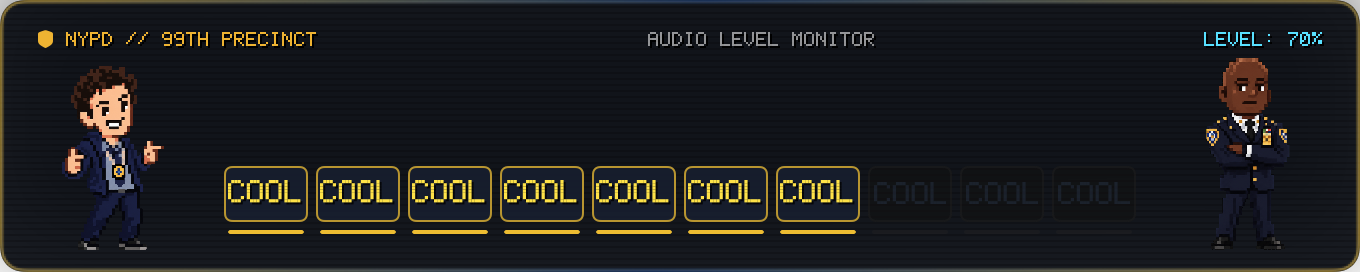
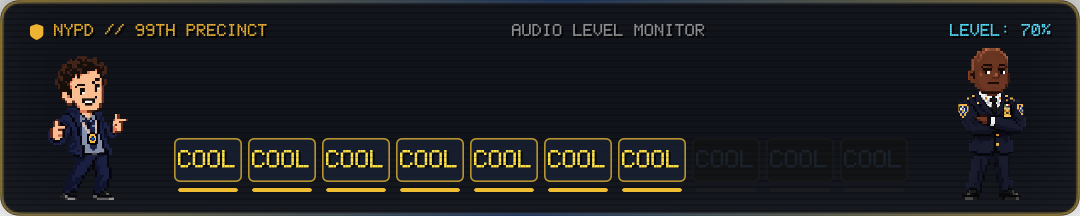
Scale down HUD dimensions to 540x108 with adjusted typography and slot padding

diff --git a/Sources/CustomVolumeHUDLib/VolumeHUDView.swift b/Sources/CustomVolumeHUDLib/VolumeHUDView.swift
@@ -19,17 +19,17 @@ public struct PixelSpeechBubble: View {
             }
 
             // Main bubble box
-            HStack(spacing: 4) {
+            HStack(spacing: 3) {
                 PixelWordView(
                     text: text,
-                    pixelSize: 1.5,
+                    pixelSize: 1.2,
                     color: Color(red: 1.0, green: 0.95, blue: 0.7),
                     shadowColor: Color.black,
-                    letterSpacing: 1.5
+                    letterSpacing: 1.2
                 )
             }
-            .padding(.horizontal, 8)
-            .padding(.vertical, 5)
+            .padding(.horizontal, 6)
+            .padding(.vertical, 4)
             .background(
                 ZStack {
                     RoundedRectangle(cornerRadius: 4, style: .continuous)
@@ -76,6 +76,13 @@ public struct PixelSpeechBubble: View {
 public struct VolumeHUDView: View {
     @ObservedObject public var viewModel: VolumeHUDViewModel
 
+    public static let hudWidth: CGFloat = 540
+    public static let hudHeight: CGFloat = 108
+    public static let slotWidth: CGFloat = 34
+    public static let slotHeight: CGFloat = 22
+    public static let slotPixelSize: CGFloat = 1.25
+    public static let slotLetterSpacing: CGFloat = 1.1
+
     public init(viewModel: VolumeHUDViewModel) {
         self.viewModel = viewModel
     }
@@ -98,15 +105,15 @@ public struct VolumeHUDView: View {
             // Base terminal bezel & scanlines
             terminalBackground
 
-            VStack(spacing: 4) {
+            VStack(spacing: 3) {
                 // Top terminal header
                 terminalHeader
 
                 // Main character + COOL slots row
-                HStack(alignment: .bottom, spacing: 8) {
+                HStack(alignment: .bottom, spacing: 6) {
                     // Left: Jake Peralta (~16% of width)
                     jakeSection
-                        .frame(width: 80, height: 96, alignment: .bottom)
+                        .frame(width: 64, height: 76, alignment: .bottom)
 
                     // Center: 10 "COOL" volume slots (~68% of width)
                     slotsSection
@@ -114,18 +121,18 @@ public struct VolumeHUDView: View {
 
                     // Right: Captain Raymond Holt (~16% of width)
                     holtSection
-                        .frame(width: 80, height: 96, alignment: .bottom)
+                        .frame(width: 64, height: 76, alignment: .bottom)
                 }
-                .padding(.horizontal, 16)
-                .padding(.bottom, 6)
+                .padding(.horizontal, 12)
+                .padding(.bottom, 4)
             }
 
             // Dialogue layer floating neatly in the center area above COOL slots
             dialogueLayer
         }
-        .frame(width: 680, height: 136)
-        .clipShape(RoundedRectangle(cornerRadius: 12, style: .continuous))
-        .shadow(color: Color.black.opacity(0.65), radius: 24, x: 0, y: 12)
+        .frame(width: Self.hudWidth, height: Self.hudHeight)
+        .clipShape(RoundedRectangle(cornerRadius: 10, style: .continuous))
+        .shadow(color: Color.black.opacity(0.65), radius: 18, x: 0, y: 8)
     }
 
     // MARK: - Subviews
@@ -134,19 +141,19 @@ public struct VolumeHUDView: View {
         ZStack {
             if let speech = viewModel.jakeSpeech {
                 PixelSpeechBubble(text: speech, pointsLeft: true)
-                    .position(x: 160, y: 58)
+                    .position(x: 130, y: 46)
                     .transition(.scale.combined(with: .opacity))
                     .zIndex(20)
             }
 
             if let speech = viewModel.holtSpeech {
                 PixelSpeechBubble(text: speech, pointsLeft: false)
-                    .position(x: 520, y: 58)
+                    .position(x: 410, y: 46)
                     .transition(.scale.combined(with: .opacity))
                     .zIndex(20)
             }
         }
-        .frame(width: 680, height: 136)
+        .frame(width: Self.hudWidth, height: Self.hudHeight)
         .animation(.spring(response: 0.25, dampingFraction: 0.7), value: viewModel.jakeSpeech)
         .animation(.spring(response: 0.25, dampingFraction: 0.7), value: viewModel.holtSpeech)
     }
@@ -154,7 +161,7 @@ public struct VolumeHUDView: View {
     private var terminalBackground: some View {
         ZStack {
             // Dark translucent acrylic backing
-            RoundedRectangle(cornerRadius: 12, style: .continuous)
+            RoundedRectangle(cornerRadius: 10, style: .continuous)
                 .fill(Color(red: 0.05, green: 0.07, blue: 0.11).opacity(0.94))
 
             // Subtle scanlines overlay
@@ -168,7 +175,7 @@ public struct VolumeHUDView: View {
             }
 
             // Retro police terminal double border
-            RoundedRectangle(cornerRadius: 12, style: .continuous)
+            RoundedRectangle(cornerRadius: 10, style: .continuous)
                 .strokeBorder(
                     LinearGradient(
                         colors: [
@@ -183,26 +190,26 @@ public struct VolumeHUDView: View {
                 )
 
             // Inner thin bevel
-            RoundedRectangle(cornerRadius: 11, style: .continuous)
+            RoundedRectangle(cornerRadius: 9, style: .continuous)
                 .stroke(Color.white.opacity(0.08), lineWidth: 0.75)
                 .padding(1)
         }
     }
 
     private var terminalHeader: some View {
-        HStack(spacing: 8) {
+        HStack(spacing: 6) {
             // Left: Precinct Badge & Identifier
-            HStack(spacing: 5) {
+            HStack(spacing: 4) {
                 Image(systemName: "shield.fill")
-                    .font(.system(size: 9, weight: .bold))
+                    .font(.system(size: 8, weight: .bold))
                     .foregroundColor(Color(red: 0.95, green: 0.75, blue: 0.25))
 
                 PixelWordView(
                     text: "NYPD // 99TH PRECINCT",
-                    pixelSize: 1.0,
+                    pixelSize: 0.85,
                     color: Color(red: 0.95, green: 0.75, blue: 0.25),
                     shadowColor: Color.black,
-                    letterSpacing: 1.0
+                    letterSpacing: 0.85
                 )
             }
 
@@ -211,38 +218,38 @@ public struct VolumeHUDView: View {
             // Center: Monitor tag
             PixelWordView(
                 text: "AUDIO LEVEL MONITOR",
-                pixelSize: 1.0,
+                pixelSize: 0.85,
                 color: Color.white.opacity(0.55),
                 shadowColor: Color.black,
-                letterSpacing: 1.0
+                letterSpacing: 0.85
             )
 
             Spacer()
 
             // Right: Level Readout
-            HStack(spacing: 4) {
+            HStack(spacing: 3) {
                 if viewModel.isMuted {
                     PixelWordView(
                         text: "[ MUTED ]",
-                        pixelSize: 1.0,
+                        pixelSize: 0.85,
                         color: Color(red: 1.0, green: 0.35, blue: 0.35),
                         shadowColor: Color.black,
-                        letterSpacing: 1.0
+                        letterSpacing: 0.85
                     )
                 } else {
                     let pct = Int(round(viewModel.volume * 100))
                     PixelWordView(
                         text: "LEVEL: \(pct)%",
-                        pixelSize: 1.0,
+                        pixelSize: 0.85,
                         color: Color(red: 0.4, green: 0.9, blue: 1.0),
                         shadowColor: Color.black,
-                        letterSpacing: 1.0
+                        letterSpacing: 0.85
                     )
                 }
             }
         }
-        .padding(.horizontal, 18)
-        .padding(.top, 9)
+        .padding(.horizontal, 14)
+        .padding(.top, 6)
     }
 
     private var jakeSection: some View {
@@ -250,13 +257,13 @@ public struct VolumeHUDView: View {
             // Jake Sprite facing right toward Holt
             if let img = jakeImage {
                 PixelArtSpriteView(image: img, isFlippedHorizontal: false)
-                    .frame(width: 54, height: 92)
+                    .frame(width: 44, height: 72)
                     .offset(y: viewModel.jakeBounceY)
                     .animation(.interactiveSpring(response: 0.15, dampingFraction: 0.6), value: viewModel.jakeBounceY)
             } else {
                 Rectangle()
                     .fill(Color.blue.opacity(0.3))
-                    .frame(width: 54, height: 92)
+                    .frame(width: 44, height: 72)
             }
         }
     }
@@ -266,22 +273,22 @@ public struct VolumeHUDView: View {
             // Captain Holt Sprite facing left toward Jake
             if let img = holtImage {
                 PixelArtSpriteView(image: img, isFlippedHorizontal: false)
-                    .frame(width: 44, height: 96)
+                    .frame(width: 36, height: 76)
             } else {
                 Rectangle()
                     .fill(Color.purple.opacity(0.3))
-                    .frame(width: 44, height: 96)
+                    .frame(width: 36, height: 76)
             }
         }
     }
 
     private var slotsSection: some View {
-        HStack(spacing: 4) {
+        HStack(spacing: 3) {
             ForEach(0..<VolumeHUDViewModel.maxSlots, id: \.self) { index in
                 volumeSlot(at: index)
             }
         }
-        .padding(.vertical, 8)
+        .padding(.vertical, 4)
     }
 
     @ViewBuilder
@@ -291,46 +298,46 @@ public struct VolumeHUDView: View {
         let slotOpacity = viewModel.slotOpacities[index]
         let effectiveOpacity = slotOpacity > 0.0 ? slotOpacity : (isActive ? 1.0 : 0.0)
 
-        VStack(spacing: 4) {
+        VStack(spacing: 3) {
             // The "COOL" slot container
             ZStack {
                 // Ghosted Inactive Base box (always visible underneath)
-                RoundedRectangle(cornerRadius: 4, style: .continuous)
+                RoundedRectangle(cornerRadius: 3, style: .continuous)
                     .fill(Color(white: 0.08).opacity(0.6))
 
-                RoundedRectangle(cornerRadius: 4, style: .continuous)
-                    .strokeBorder(Color(white: 0.2).opacity(0.35), lineWidth: 1.0)
+                RoundedRectangle(cornerRadius: 3, style: .continuous)
+                    .strokeBorder(Color(white: 0.2).opacity(0.35), lineWidth: 0.8)
 
                 PixelWordView(
                     text: "COOL",
-                    pixelSize: 1.6,
+                    pixelSize: Self.slotPixelSize,
                     color: Color(red: 0.22, green: 0.28, blue: 0.38).opacity(0.40),
                     shadowColor: nil,
-                    letterSpacing: 1.4
+                    letterSpacing: Self.slotLetterSpacing
                 )
 
                 // Active luminous layer with CRT phosphor dissolve & flicker opacity
                 if isActive || slotOpacity > 0.0 {
                     ZStack {
-                        RoundedRectangle(cornerRadius: 4, style: .continuous)
+                        RoundedRectangle(cornerRadius: 3, style: .continuous)
                             .fill(Color(red: 0.12, green: 0.16, blue: 0.24).opacity(0.9))
 
-                        RoundedRectangle(cornerRadius: 4, style: .continuous)
-                            .strokeBorder(Color(red: 0.95, green: 0.78, blue: 0.25).opacity(0.75), lineWidth: 1.0)
+                        RoundedRectangle(cornerRadius: 3, style: .continuous)
+                            .strokeBorder(Color(red: 0.95, green: 0.78, blue: 0.25).opacity(0.75), lineWidth: 0.8)
 
                         PixelWordView(
                             text: "COOL",
-                            pixelSize: 1.6,
+                            pixelSize: Self.slotPixelSize,
                             color: Color(red: 1.0, green: 0.90, blue: 0.35),
                             shadowColor: Color.black.opacity(0.8),
-                            letterSpacing: 1.4
+                            letterSpacing: Self.slotLetterSpacing
                         )
                         .offset(y: bounceY)
                     }
                     .opacity(effectiveOpacity)
                 }
             }
-            .frame(width: 42, height: 28)
+            .frame(width: Self.slotWidth, height: Self.slotHeight)
 
             // Bottom LED indicator bar
             ZStack {
@@ -343,7 +350,7 @@ public struct VolumeHUDView: View {
                         .opacity(effectiveOpacity)
                 }
             }
-            .frame(width: 38, height: 2.5)
+            .frame(width: 30, height: 2)
             .cornerRadius(1)
         }
     }

diff --git a/Tests/CustomVolumeHUDTests/CustomVolumeHUDTests.swift b/Tests/CustomVolumeHUDTests/CustomVolumeHUDTests.swift
@@ -219,10 +219,10 @@ final class CustomVolumeHUDTests: XCTestCase {
     @MainActor
     func testHUDControllerDimensions() {
         let controller = HUDWindowController()
-        XCTAssertGreaterThanOrEqual(controller.hudWidth, 600)
-        XCTAssertLessThanOrEqual(controller.hudWidth, 750)
-        XCTAssertGreaterThanOrEqual(controller.hudHeight, 110)
-        XCTAssertLessThanOrEqual(controller.hudHeight, 150)
+        XCTAssertGreaterThanOrEqual(controller.hudWidth, 480)
+        XCTAssertLessThanOrEqual(controller.hudWidth, 600)
+        XCTAssertGreaterThanOrEqual(controller.hudHeight, 95)
+        XCTAssertLessThanOrEqual(controller.hudHeight, 120)
     }
 
     @MainActor
@@ -247,7 +247,7 @@ final class CustomVolumeHUDTests: XCTestCase {
     @MainActor
     private func renderViewToPNG<V: View>(view: V, filename: String) {
         let hostingView = NSHostingView(rootView: view)
-        hostingView.frame = NSRect(x: 0, y: 0, width: 680, height: 136)
+        hostingView.frame = NSRect(x: 0, y: 0, width: VolumeHUDView.hudWidth, height: VolumeHUDView.hudHeight)
         hostingView.layoutSubtreeIfNeeded()
 
         guard let rep = hostingView.bitmapImageRepForCachingDisplay(in: hostingView.bounds) else { return }
@@ -380,16 +380,16 @@ final class CustomVolumeHUDTests: XCTestCase {
 
     func testSlotTextDimensionsFitWithinSlotBoxWithoutClipping() {
         let text = "COOL"
-        let pixelSize: CGFloat = 1.6
-        let letterSpacing: CGFloat = 1.4
+        let pixelSize: CGFloat = VolumeHUDView.slotPixelSize
+        let letterSpacing: CGFloat = VolumeHUDView.slotLetterSpacing
         let charCount = CGFloat(text.count)
         let glyphWidth = 5.0 * pixelSize
         let baseWidth = (charCount * glyphWidth) + ((charCount - 1) * letterSpacing)
         let totalWidth = baseWidth + 1.0 // with shadow
         let totalHeight = (7.0 * pixelSize) + 1.0
 
-        let boxWidth: CGFloat = 42.0
-        let boxHeight: CGFloat = 28.0
+        let boxWidth: CGFloat = VolumeHUDView.slotWidth
+        let boxHeight: CGFloat = VolumeHUDView.slotHeight
 
         XCTAssertLessThan(totalWidth, boxWidth, "COOL text width must be strictly less than slot box width")
         XCTAssertLessThan(totalHeight, boxHeight, "COOL text height must be strictly less than slot box height")

diff --git a/Sources/CustomVolumeHUDLib/HUDWindowController.swift b/Sources/CustomVolumeHUDLib/HUDWindowController.swift
@@ -9,8 +9,11 @@ public final class HUDWindowController {
     private var viewModel: VolumeHUDViewModel?
     private var hostingView: NSHostingView<VolumeHUDView>?
 
-    public let hudWidth: CGFloat = 680
-    public let hudHeight: CGFloat = 136
+    public static let defaultWidth: CGFloat = 540
+    public static let defaultHeight: CGFloat = 108
+
+    public let hudWidth: CGFloat = HUDWindowController.defaultWidth
+    public let hudHeight: CGFloat = HUDWindowController.defaultHeight
 
     public init() {
         setupPanel()
